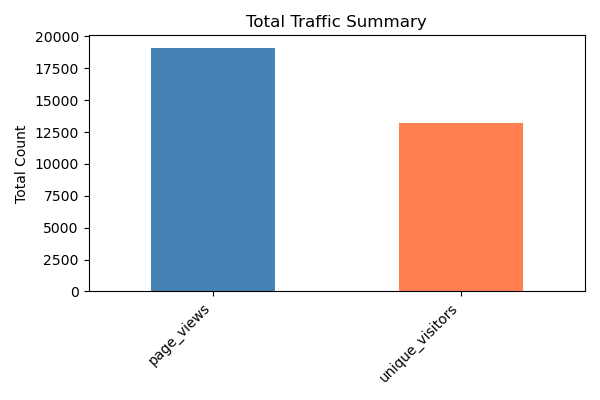
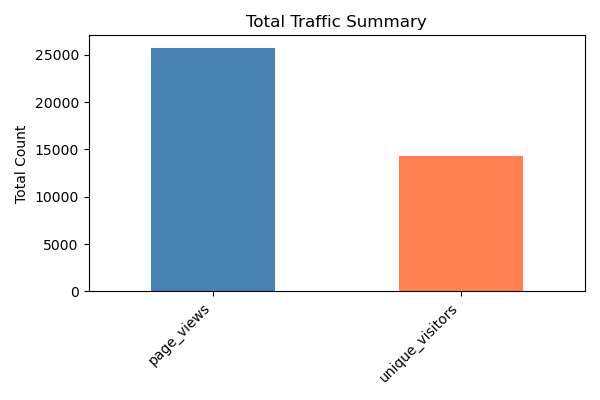
Update report with new data

diff --git a/index.html b/index.html
@@ -1,5 +1,5 @@
 
-    <!DOCTYPE html> 
+    <!DOCTYPE html>
     <html>
     <head>
         <title>Traffic Analysis Report</title>
@@ -66,39 +66,39 @@
     <body>
         <div class="container">
             <h1>📊 Website Traffic Analysis Report</h1>
-            <p>Generated on: 2026-01-14 17:14:40</p>
+            <p>Generated on: 2026-01-14 17:34:53</p>
             
             <h2>Key Metrics</h2>
             <div class="stats">
     
                 <div class="stat-card">
                     <div class="stat-label">Total Page Views</div>
-                    <div class="stat-value">19130</div>
+                    <div class="stat-value">25760</div>
                 </div>
         
                 <div class="stat-card">
                     <div class="stat-label">Total Unique Visitors</div>
-                    <div class="stat-value">13220</div>
+                    <div class="stat-value">14340</div>
                 </div>
         
                 <div class="stat-card">
                     <div class="stat-label">Average Daily Page Views</div>
-                    <div class="stat-value">1,366.4</div>
+                    <div class="stat-value">1,717.3</div>
                 </div>
         
                 <div class="stat-card">
                     <div class="stat-label">Average Daily Visitors</div>
-                    <div class="stat-value">944.3</div>
+                    <div class="stat-value">956.0</div>
                 </div>
         
                 <div class="stat-card">
                     <div class="stat-label">Peak Page Views</div>
-                    <div class="stat-value">1,710</div>
+                    <div class="stat-value">6,630</div>
                 </div>
         
                 <div class="stat-card">
                     <div class="stat-label">Peak Date</div>
-                    <div class="stat-value">2026-01-09</div>
+                    <div class="stat-value">2026-01-15</div>
                 </div>
         
             </div>
